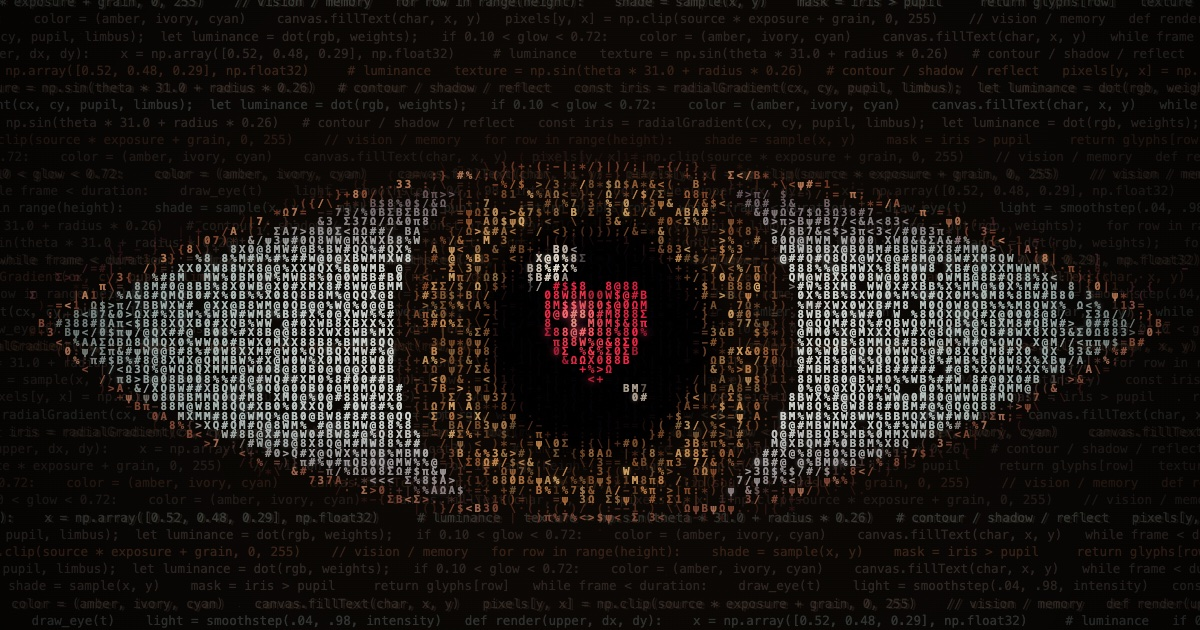
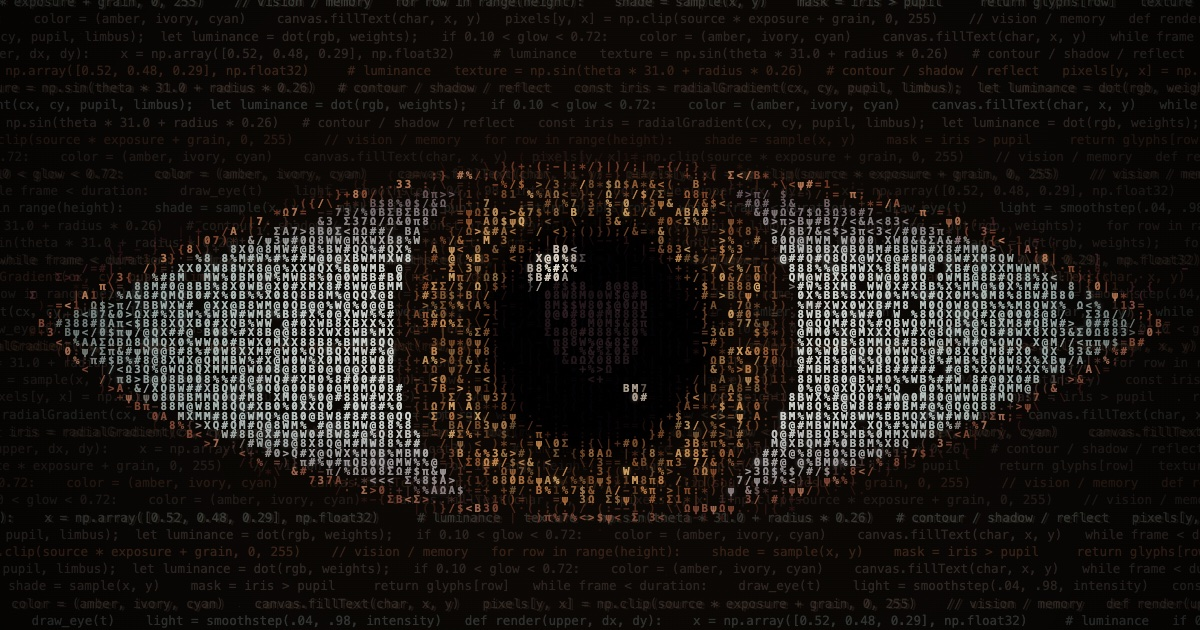
Subdue pupil heart and clarify ASCII message

Changed region(s): [[0.4317, 0.4222, 0.555, 0.6032]]

diff --git a/ascii_eye_heart_cinematic.html b/ascii_eye_heart_cinematic.html
@@ -31,7 +31,7 @@ body{font-family:ui-monospace,SFMono-Regular,Menlo,Consolas,monospace;color:#e6b
 </head>
 <body>
 <main id="stage">
-  <canvas id="scene" role="img" aria-label="An eye made of code opens, looks right and left, blinks, and moves into its pupil. A heart gives way to the message: You asked me where I disappeared to… I’m here."></canvas>
+  <canvas id="scene" role="img" aria-label="An eye made of code opens, looks right and left, blinks, and moves into its pupil. A heart gives way to the message: You asked me where I’d gone… I’m here."></canvas>
   <div id="overlay"></div>
   <div id="top"><div><strong>✦</strong> &nbsp; B E T W E E N &nbsp; B L I N K S</div><div id="label"> <span id="clock">00:00</span></div></div>
   <div id="bottom"><span id="status">01 / AWAKENING</span><div class="controls"><button id="toggle" aria-label="Pause animation">Ⅱ &nbsp; Pause</button><button id="replay" aria-label="Replay animation">↻ &nbsp; Replay</button></div></div>
@@ -373,6 +373,8 @@ function drawHeart(t){
  const size=Math.min(53*zoom*drawW/REF_W,Math.min(W,H)*.33)*pulse;
  const openness=opennessAt(t);
  const heartReveal=smooth(.03,1.05,t);
+ const depth=smooth(6.75,10.9,t);
+ const heartOpacity=mix(.20,1,depth);
  // The heart shares the pupil's origin and scale from the very first frame.
  // Only its individual code characters glow; there is no smooth heart silhouette.
  ctx.textAlign='center';ctx.textBaseline='middle';ctx.font=`700 ${fontSize*1.05}px ui-monospace,SFMono-Regular,Menlo,Consolas,monospace`;
@@ -397,15 +399,18 @@ function drawHeart(t){
      const soft=Math.exp(-((xx+.1)**2/.8+(yy-.25)**2/.8));
      const stripe=Math.sin((xx+yy)*16)*.04;
      const lum=clamp(.42 +.30*(yy+.9)/2.2 + .35*highlight+.14*soft+stripe);
-     const R=255, G=Math.round(mix(30,191,highlight*.77 +.19*soft)), B=Math.round(mix(68,180,highlight*.64+.13*soft));
+     const R=Math.round(mix(185,255,depth));
+     const G=Math.round(mix(128,mix(30,191,highlight*.77+.19*soft),depth));
+     const B=Math.round(mix(135,mix(68,180,highlight*.64+.13*soft),depth));
      // Lower fragments soften, stretch, and fall before the upper edge follows.
      const phase=.06+.17*rand(c,r,33)+.10*yy;
      const release=smooth(phase,phase+.50,melt);
-     const alp=clamp((.65+.34*edge)*(.82+.18*rand(c,r,27)))*(1-smooth(.36,1,release))*heartReveal;
-     if(rand(c,r,19)>.27+.73*alp)continue;
+     const bodyAlpha=clamp((.65+.34*edge)*(.82+.18*rand(c,r,27)))*(1-smooth(.36,1,release))*heartReveal;
+     const alp=bodyAlpha*heartOpacity;
+     if(rand(c,r,19)>.27+.73*bodyAlpha)continue;
      ctx.fillStyle=`rgb(${R},${G},${B})`;ctx.globalAlpha=alp;
      if(highlight>.32|| (edge<.65&&rand(c,r,1)>.6)){
-       ctx.shadowBlur=7;ctx.shadowColor='rgba(255,67,112,.78)';
+       ctx.shadowBlur=1+6*depth;ctx.shadowColor=`rgba(255,67,112,${.15+.63*depth})`;
      }else ctx.shadowBlur=0;
      const chars= lum>.67?'@#MW880$':lum>.5?'8BXΣπΩ%&0': '0A4/<>+*=';
      const ch=chars[(rand(c,r,41)*chars.length)|0];
@@ -438,15 +443,16 @@ function drawHeart(t){
  }
 }
 function buildMessageMasks(){
- const narrow=W<560,step=narrow?3.7:4.4;
- const quiet=narrow?26:40,large=narrow?64:88;
+ const narrow=W<560,step=narrow?3.5:4.1;
+ const quiet=narrow?40:52,large=narrow?64:88;
  const specs=narrow?[
-   {text:'You asked me where',y:H*.5-68,start:15.7,size:quiet,kind:'quiet'},
-   {text:'I disappeared to…',y:H*.5-35,start:16.35,size:quiet,kind:'quiet'},
-   {text:'I’m here.',y:H*.5+47,start:18.2,size:large,kind:'arrival'}
+   {text:'You asked me',y:H*.5-86,start:15.7,size:quiet,kind:'quiet'},
+   {text:'where I’d gone…',y:H*.5-39,start:16.35,size:quiet,kind:'quiet'},
+   {text:'I’m here.',y:H*.5+64,start:18.2,size:large,kind:'arrival'}
  ]:[
-   {text:'You asked me where I disappeared to…',y:H*.5-47,start:15.7,size:quiet,kind:'quiet'},
-   {text:'I’m here.',y:H*.5+44,start:18.2,size:large,kind:'arrival'}
+   {text:'You asked me',y:H*.5-96,start:15.7,size:quiet,kind:'quiet'},
+   {text:'where I’d gone…',y:H*.5-39,start:16.35,size:quiet,kind:'quiet'},
+   {text:'I’m here.',y:H*.5+63,start:18.2,size:large,kind:'arrival'}
  ];
  const mask=document.createElement('canvas'),blur=document.createElement('canvas');
  mask.width=blur.width=W;mask.height=blur.height=H;
@@ -461,7 +467,7 @@ function buildMessageMasks(){
    }while(size>18);
    const width=m.measureText(spec.text).width;
    m.textAlign='center';m.textBaseline='middle';
-   m.lineWidth=step*.42;m.lineJoin='round';m.strokeStyle='#fff';m.fillStyle='#fff';
+   m.lineWidth=step*(spec.kind==='quiet'?.62:.42);m.lineJoin='round';m.strokeStyle='#fff';m.fillStyle='#fff';
    m.strokeText(spec.text,W/2,spec.y);m.fillText(spec.text,W/2,spec.y);
    const core=m.getImageData(0,0,W,H).data;
    b.clearRect(0,0,W,H);b.filter=spec.kind==='arrival'?'blur(15px)':'blur(7px)';
@@ -480,7 +486,7 @@ function buildMessageMasks(){
        const a=core[idx]/255,h=halo[idx]/255;
        const point={x:ix,y:iy,a,u:clamp((ix-x0)/(x1-x0)),seed:rand(col,row,spec.start)};
        if(a>.18)points.push(point);
-       else if(h>.018&&rand(col,row,88)>.31)glow.push({...point,a:h});
+       else if(h>.018&&rand(col,row,88)>(spec.kind==='arrival'?.31:.78))glow.push({...point,a:h});
        col++;
      }
      row++;
@@ -490,25 +496,26 @@ function buildMessageMasks(){
 }
 function drawFinalMessage(t){
  if(t<15.5)return;
- const chars='01@#%<>/{}+*Σπ';
+ const chars='01A8M#';
+ const haloChars='01+<>*';
  for(const part of messageParts){
    const first=smooth(part.start,part.start+.22,t);
    if(first<=0)continue;
    ctx.save();ctx.textAlign='center';ctx.textBaseline='middle';
-   ctx.font=`700 ${part.step*1.15}px ui-monospace,SFMono-Regular,Menlo,Consolas,monospace`;
+   ctx.font=`700 ${part.step*1.25}px ui-monospace,SFMono-Regular,Menlo,Consolas,monospace`;
    for(const p of part.glow){
      const reveal=smooth(part.start+p.u*.86,part.start+p.u*.86+.34,t);
      if(reveal<=0)continue;
      ctx.globalAlpha=clamp(p.a*reveal*(part.kind==='arrival'?3.0:1.5),0,.48);
      ctx.fillStyle=part.kind==='arrival'?'#d96e52':'#b98466';
-     ctx.fillText(chars[Math.floor(p.seed*chars.length)],p.x,p.y);
+     ctx.fillText(haloChars[Math.floor(p.seed*haloChars.length)],p.x,p.y);
    }
    for(const p of part.points){
      const reveal=smooth(part.start+p.u*.86,part.start+p.u*.86+.34,t);
      if(reveal<=0)continue;
      ctx.globalAlpha=clamp((.55+.45*p.a)*reveal,0,1);
-     ctx.fillStyle=part.kind==='arrival'?(p.seed>.72?'#fff3df':'#ffd3ad'):'#f3d2b5';
-     ctx.shadowBlur=part.kind==='arrival'&&p.seed>.62?5:2;
+     ctx.fillStyle=part.kind==='arrival'?(p.seed>.72?'#fff3df':'#ffd3ad'):'#ffe6d1';
+     ctx.shadowBlur=part.kind==='arrival'&&p.seed>.62?5:0;
      ctx.shadowColor='#e17c5b';
      ctx.fillText(chars[Math.floor(p.seed*chars.length)],p.x,p.y);
    }
